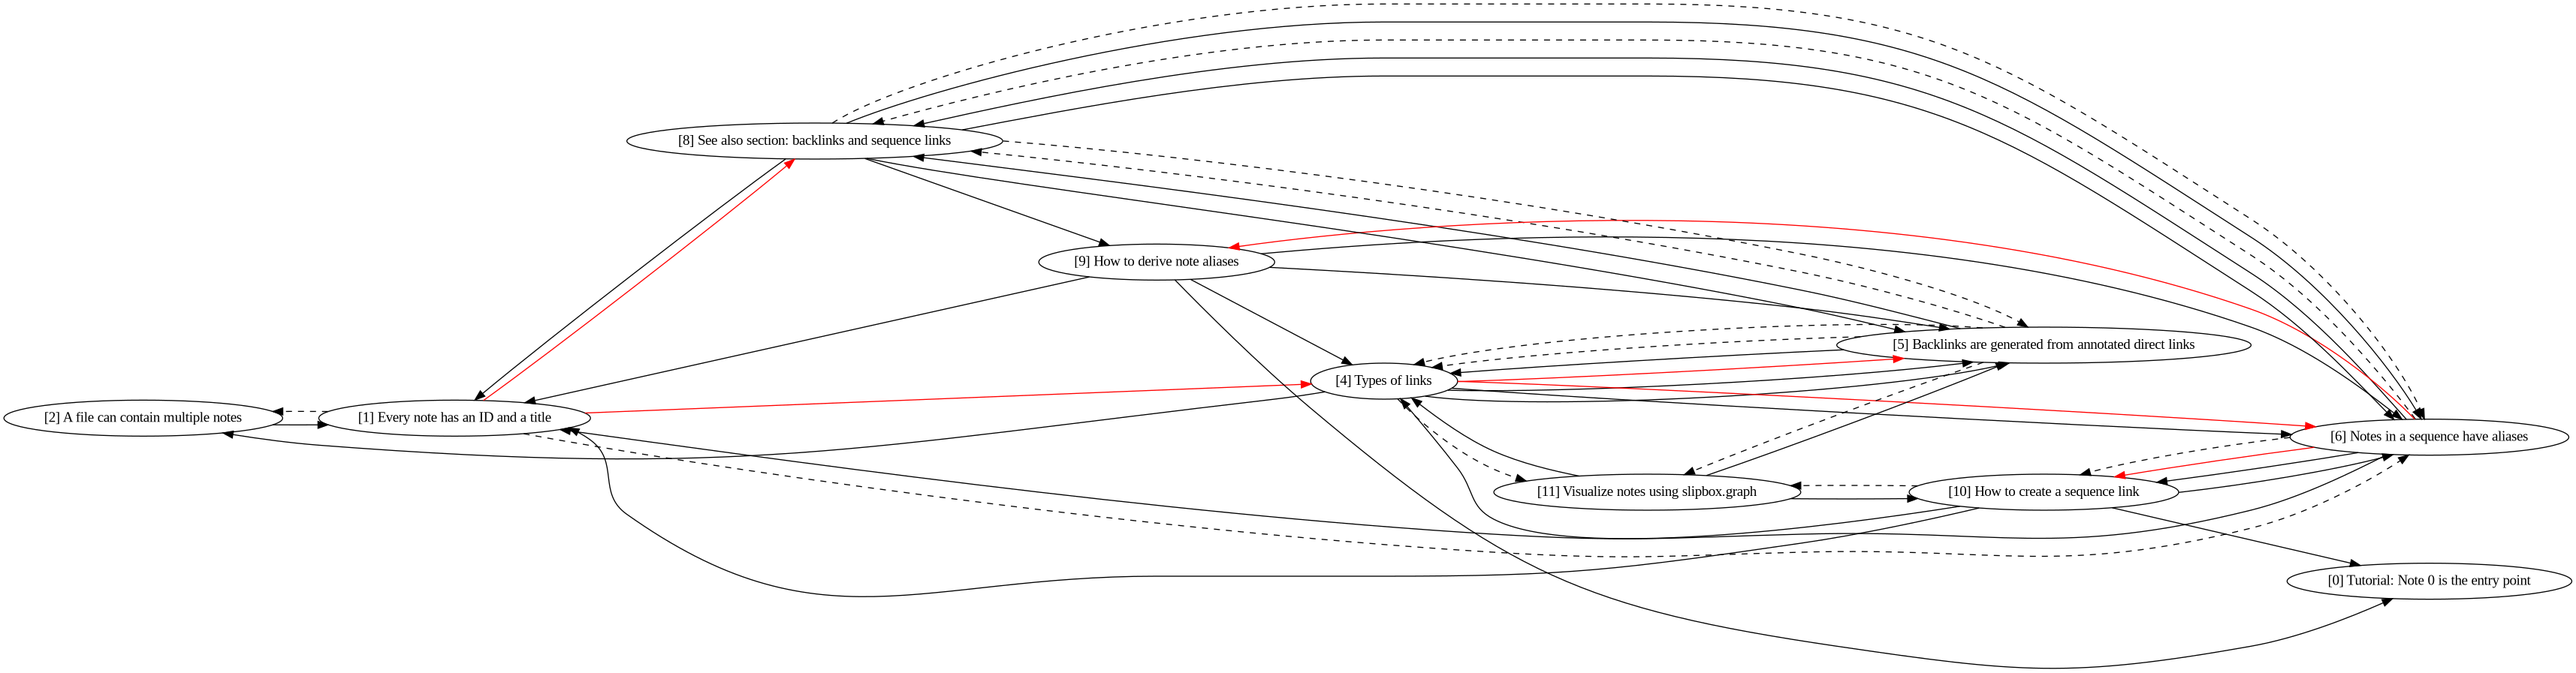
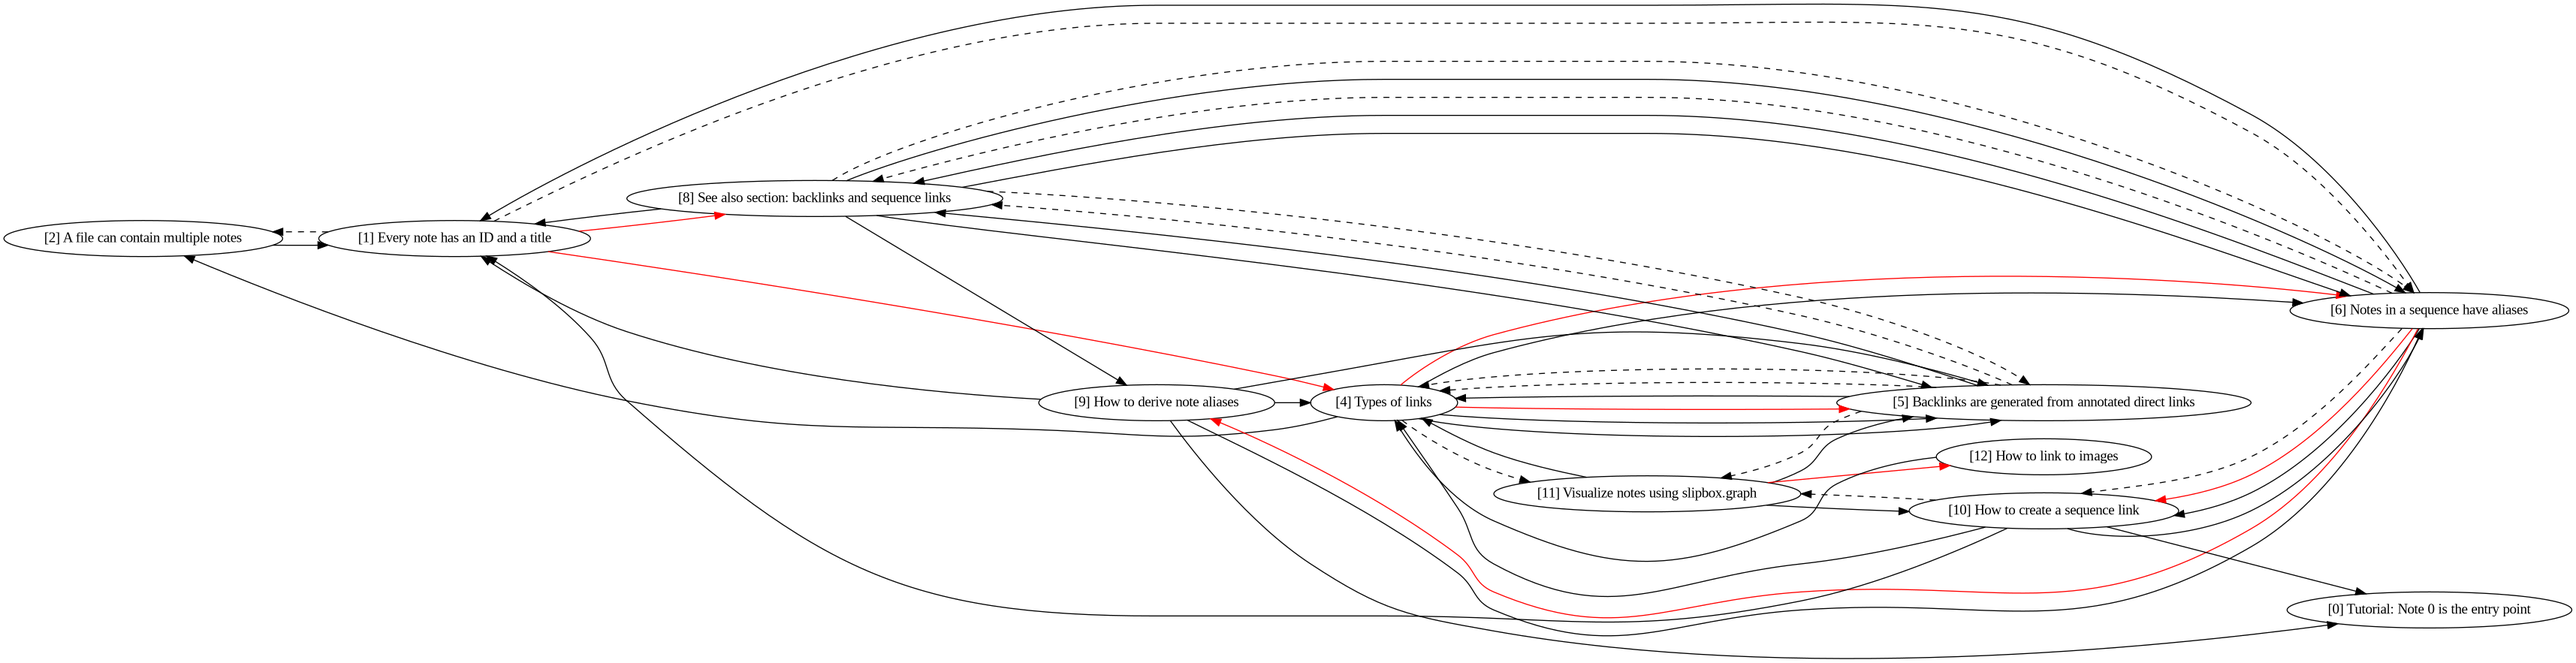
Document usage of relative image links

diff --git a/docs/index.html b/docs/index.html
@@ -4,7 +4,7 @@
   <meta charset="utf-8" />
   <meta name="generator" content="pandoc" />
   <meta name="viewport" content="width=device-width, initial-scale=1.0, user-scalable=yes" />
-  <title>tmp3rhe2bm_</title>
+  <title>tmpn7i9c7i4</title>
   <style>
     code{white-space: pre-wrap;}
     span.smallcaps{font-variant: small-caps;}
@@ -96,6 +96,7 @@
   slipbox.notes[9] = { title: 'How to derive note aliases', aliases: [], backlinks: [] }
   slipbox.notes[10] = { title: 'How to create a sequence link', aliases: [], backlinks: [] }
   slipbox.notes[11] = { title: 'Visualize notes using slipbox.graph', aliases: [], backlinks: [] }
+  slipbox.notes[12] = { title: 'How to link to images', aliases: [], backlinks: [] }
   slipbox.notes[1].aliases.push('0a')
   slipbox.aliases['0a'] = { id: 1, children: [] }
   slipbox.notes[2].aliases.push('0b')
@@ -118,6 +119,8 @@
   slipbox.aliases['0a1b2'] = { id: 10, children: [] }
   slipbox.notes[11].aliases.push('0e')
   slipbox.aliases['0e'] = { id: 11, children: [] }
+  slipbox.notes[12].aliases.push('0e1')
+  slipbox.aliases['0e1'] = { id: 12, children: [] }
   slipbox.notes[1].backlinks.push({ src: 2, annotation: 'Notes in a single file are separated by headers.' })
   slipbox.notes[5].backlinks.push({ src: 4, annotation: 'An annotated direct link generates a backlink.' })
   slipbox.notes[5].backlinks.push({ src: 4, annotation: 'This creates another backlink.' })
@@ -142,6 +145,8 @@
   slipbox.aliases['0a1b'].children.push('0a1b1')
   slipbox.aliases['0a1b2'].parent = '0a1b'
   slipbox.aliases['0a1b'].children.push('0a1b2')
+  slipbox.aliases['0e1'].parent = '0e'
+  slipbox.aliases['0e'].children.push('0e1')
   function A (innerText, href, title) {
     const a = document.createElement('a')
     a.innerText = innerText
@@ -380,7 +385,10 @@
 </ul></li>
 <li>Backlinks and sequence links appear in the ‘See also’ section of each note  [<a href="#8" title="0a2">0a2</a>].</li>
 <li>You can add citations by specifying a bibliography file  [<a href="#7" title="0d">0d</a>].</li>
-<li>You can visualize notes using <code>slipbox.graph</code>  [<a href="#11" title="0e">0e</a>].</li>
+<li>You can visualize notes using <code>slipbox.graph</code>  [<a href="#11" title="0e">0e</a>].
+<ul>
+<li>How to link to images?  [<a href="#12" title="0e1">0e1</a>].</li>
+</ul></li>
 </ul>
 <p><img src="tutorial.png" style="width:100.0%" /></p>
 </section>
@@ -477,6 +485,17 @@
 <p>The output would look something like this.</p>
 <p><img src="tutorial.png" style="width:100.0%" /></p>
 <p>Black lines represent <a href="#4" title="Direct links can be visualized using slipbox.graph.">direct links</a> [4] and red lines represent <a href="#10" title="Sequence links can be visualized using slipbox.graph.">sequence links</a> [10]. Dashed lines represent <a href="#5" title="Backlinks can be visualized using slipbox.graph.">backlinks</a> [5].</p>
+</section>
+<section id="12" class="level1" title="How to link to images">
+<h1 title="How to link to images">12 How to link to images</h1>
+<p><a href="##images">#images</a> <a href="##links">#links</a></p>
+<p>You can <a href="#4">link</a> [4] to images using absolute paths, relative paths and URLs. Relative paths are interpreted to be relative to the output HTML.</p>
+<p>Suppose you have the following directory structure.</p>
+<div class="sourceCode" id="cb6"><pre class="sourceCode bash"><code class="sourceCode bash"><span id="cb6-1"><a href="#cb6-1" aria-hidden="true"></a><span class="ex">notes/input.md</span></span>
+<span id="cb6-2"><a href="#cb6-2" aria-hidden="true"></a><span class="ex">output.html</span></span>
+<span id="cb6-3"><a href="#cb6-3" aria-hidden="true"></a><span class="ex">images/image.png</span></span></code></pre></div>
+<p>You could link to <code>image.png</code> from <code>notes/input.md</code> as:</p>
+<div class="sourceCode" id="cb7"><pre class="sourceCode markdown"><code class="sourceCode markdown"><span id="cb7-1"><a href="#cb7-1" aria-hidden="true"></a><span class="al">![description](images/image.png)</span></span></code></pre></div>
 </section>
 
 <section id='#You' title='#You' class='level1'>
@@ -590,6 +609,21 @@
     </li>
   </ul>
 </section>
+<section id='#images' title='#images' class='level1'>
+  <h1>
+    <a href='#tags' title='List of tags'>
+      #images
+    </a>
+  </h1>
+  <ul>
+    <li>
+      [12] 
+      <a href='#12'>
+        How to link to images
+      </a>
+    </li>
+  </ul>
+</section>
 <section id='#like' title='#like' class='level1'>
   <h1>
     <a href='#tags' title='List of tags'>
@@ -628,6 +662,12 @@
       [11] 
       <a href='#11'>
         Visualize notes using slipbox.graph
+      </a>
+    </li>
+    <li>
+      [12] 
+      <a href='#12'>
+        How to link to images
       </a>
     </li>
   </ul>
@@ -771,6 +811,11 @@
     <li>
       <a href='##can'>
         #can
+      </a>
+    </li>
+    <li>
+      <a href='##images'>
+        #images
       </a>
     </li>
     <li>

diff --git a/docs/tutorial.md b/docs/tutorial.md
@@ -13,6 +13,7 @@ You can use it as an entry point to your notes.
 - Backlinks and sequence links appear in the 'See also' section of each note [](#8 '0a2').
 - You can add citations by specifying a bibliography file [](#7 '0d').
 - You can visualize notes using `slipbox.graph` [](#11 '0e').
+    + How to link to images? [](#12 '0e1').
 
 ![](tutorial.png){ width=100% }
 
@@ -198,3 +199,24 @@ Dashed lines represent [backlinks][11-5].
 [11-4]: #4 "Direct links can be visualized using slipbox.graph."
 [11-5]: #5 "Backlinks can be visualized using slipbox.graph."
 [11-10]: #10 "Sequence links can be visualized using slipbox.graph."
+
+# 12 How to link to images
+#images #links
+
+You can [link](#4) to images using absolute paths, relative paths and
+URLs.
+Relative paths are interpreted to be relative to the output HTML.
+
+Suppose you have the following directory structure.
+
+```bash
+notes/input.md
+output.html
+images/image.png
+```
+
+You could link to `image.png` from `notes/input.md` as:
+
+```markdown
+![description](images/image.png)
+```
